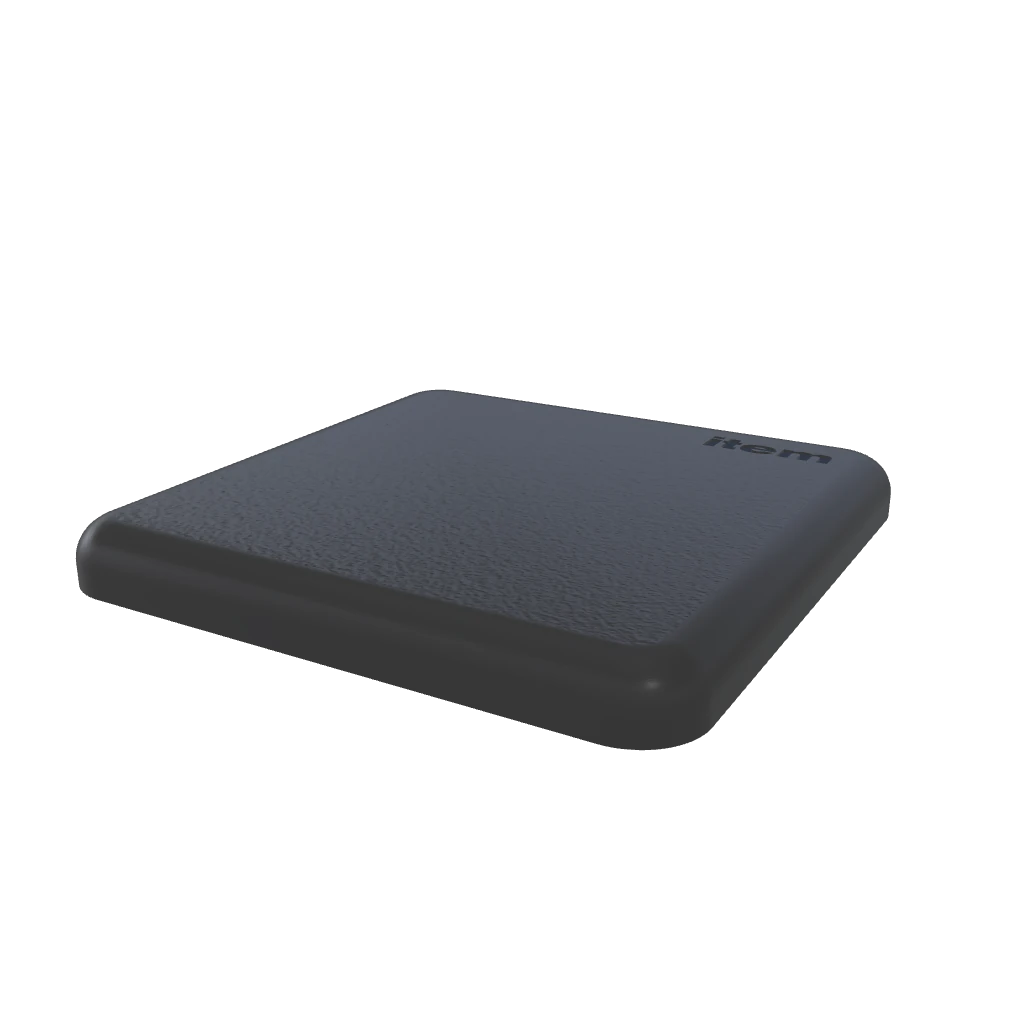
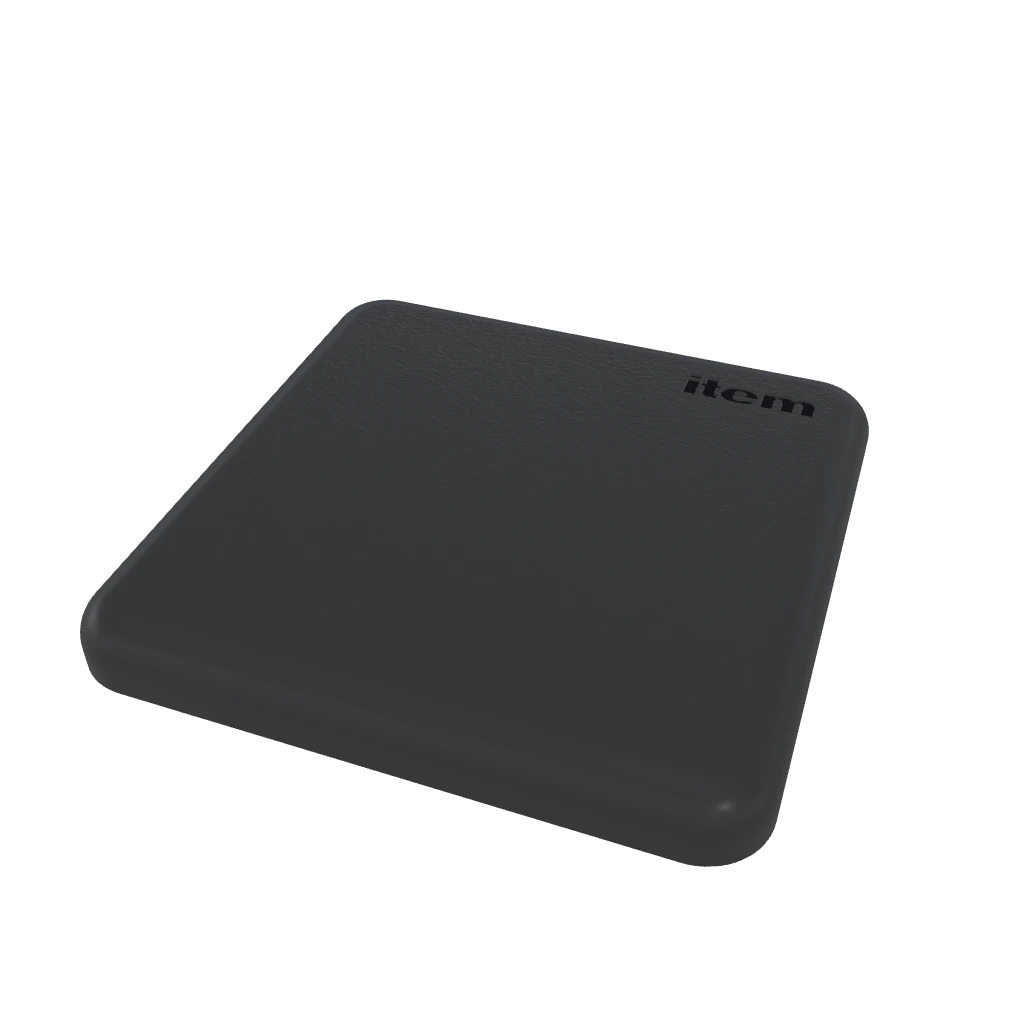
fix: synchronize showcase fallbacks with updated product poses

Changed region(s): [[0.0625, 0.2812, 0.875, 0.8438]]

diff --git a/tooling/asset-pipeline/showcase-posters.spec.ts b/tooling/asset-pipeline/showcase-posters.spec.ts
@@ -6,6 +6,13 @@ import geometry from './showcase-geometry-report.json';
 import posters from './showcase-poster-report.json';
 import presentation from '../../apps/website/src/lib/showcase/presentation.json';
 
+// The poster renderer uses the detail camera and model configuration only.
+// Interactive minimap poses and hover scales do not change the rendered fallback.
+const detailPose = ({ camera, model }: { camera?: unknown; model?: unknown }) => ({
+	camera,
+	model
+});
+
 it('keeps rendered fallbacks synchronized with their geometry, frame and authored detail pose', async () => {
 	expect(posters.map((poster) => poster.id).sort()).toEqual(
 		geometry.map((asset) => asset.spatialElementId).sort()
@@ -18,7 +25,10 @@ it('keeps rendered fallbacks synchronized with their geometry, frame and authore
 			assetToFrame: asset.pair.assetToFrame,
 			bounds: asset.pair.bounds
 		});
-		expect(poster.pose).toEqual(presentation[asset.spatialElementId as keyof typeof presentation]);
+		expect(
+			detailPose(poster.pose),
+			`${asset.spatialElementId}: regenerate the fallback with npm run assets:showcase:render -- --only=${asset.spatialElementId}`
+		).toEqual(detailPose(presentation[asset.spatialElementId as keyof typeof presentation]));
 		const bytes = readFileSync(
 			new URL(`../../apps/website/static${asset.poster.src}`, import.meta.url)
 		);

diff --git a/tooling/asset-pipeline/README.md b/tooling/asset-pipeline/README.md
@@ -128,7 +128,11 @@ node tooling/asset-pipeline/render-showcase.mjs --only=joker,tool-check-plus --c
 Set `SHOWCASE_SOURCE_ROOT` for comparisons against a source library elsewhere.
 Comparison sheets and pixel/silhouette measurements go to `.artifacts/showcase/`.
 `showcase-poster-report.json` records each committed poster's hashes, camera pose
-and shared frame; tests catch stale posters after model or presentation changes.
+and shared frame; tests catch stale posters after model or detail-camera changes.
+After editing either in `presentation.json`, regenerate only the affected products,
+for example `npm run assets:showcase:render -- --only=item-profile,item-end-cap`,
+and commit the WebP files together with the updated poster report. Minimap poses
+and hover scales affect only the interactive view and do not require new posters.
 Inspect these visually: silhouette overlap alone cannot verify texture quality,
 small lettering, reflections or internal detail. Posters are committed website
 assets, so neither production builds nor no-JavaScript visitors need the renderer
